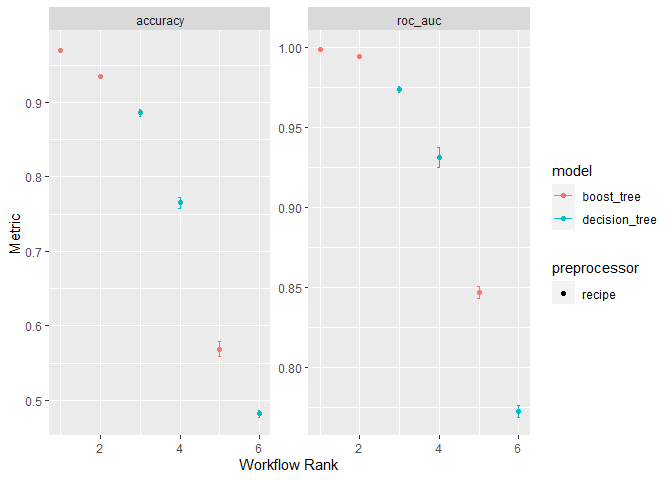
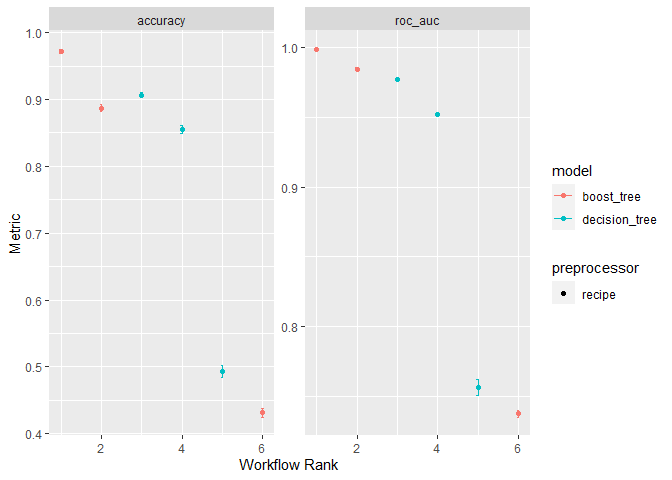
made language connecting accuracy and error more explicit.

diff --git a/ml_project.md b/ml_project.md
@@ -8,17 +8,9 @@ library(tidyverse)
 library(tidymodels)
 
 library(workflowsets)
-```
-
-    ## Warning: package 'workflowsets' was built under R version 4.0.4
-
-``` r
 library(stacks)
-```
+library(vip)
 
-    ## Warning: package 'stacks' was built under R version 4.0.4
-
-``` r
 set.seed(123)
 ```
 
@@ -44,10 +36,10 @@ protection from overfitting. Other steps were also tested and mentioned
 in the document.
 
 I concluded by choosing a gradient boosted trees model which gave me
-accuracy of approximately 97% on the training data. As I used cross
-validation, hopefully I will not see a significant drop in accuracy when
-exposed to novel data, in other words, I don’t believe my out of sample
-error will be large.
+accuracy of approximately 97% on the training data when using cross
+validation, this did not change when exposed to new data. In other
+words, I don’t believe my actual out of sample error will be much larger
+than (100% - 97% =) 3%.
 
 A prediction for the testing data was also done.
 
@@ -112,10 +104,17 @@ rev_pml_training <- rev_pml_training %>%
   mutate_if(is.character, as.factor)
 ```
 
+``` r
+rev_pml_training_split <- rev_pml_training %>%
+  initial_split(prop = 3/4, strata = classe)
+
+rev_pml_training_train <- training(rev_pml_training_split)
+```
+
 The stratified folds were created using the cleaned dataset
 
 ``` r
-folds <- vfold_cv(rev_pml_training,
+folds <- vfold_cv(rev_pml_training_train,
                   strata = classe,    # This is stratified sampling
                   v = 5)              # This is 5-fold cross-validation
 ```
@@ -135,7 +134,7 @@ seven (7) I specify, are to be predictors).
 ``` r
 # This is the recipe to be used with trees
 classe_rec <- recipe(classe ~ .,
-                     data = rev_pml_training) %>%
+                     data = rev_pml_training_train) %>%
 # Update the first seven (7) columns as ID and thus not use them as predictors
   update_role(X1,
               user_name,
@@ -292,9 +291,8 @@ will choose the best one to be used for predictions.
 
 ## Results
 
-I found the best model was **boosted trees using decorrelation via
-removing variables**, details can be found in the following table and
-plot.
+I found the best model was **boosted trees without any decorrelation**,
+details can be found in the following table and plot.
 
 Interestingly, decorrelation using PCA proved to be worse than using no
 decorrelation at all, rather than assume this to be a fault of PCA, I’m
@@ -322,18 +320,18 @@ ranked_results
     ## # A tibble: 12 x 5
     ##     rank .config              wflow_id                 metric    mean
     ##    <int> <chr>                <chr>                    <chr>    <dbl>
-    ##  1     1 Preprocessor2_Model1 filter_cor_boosted_trees accuracy 0.970
-    ##  2     1 Preprocessor2_Model1 filter_cor_boosted_trees roc_auc  0.998
-    ##  3     2 Preprocessor1_Model1 simple_boosted_trees     accuracy 0.935
-    ##  4     2 Preprocessor1_Model1 simple_boosted_trees     roc_auc  0.994
-    ##  5     3 Preprocessor1_Model2 simple_decision_tree     accuracy 0.886
-    ##  6     3 Preprocessor1_Model2 simple_decision_tree     roc_auc  0.974
-    ##  7     4 Preprocessor4_Model1 filter_cor_decision_tree accuracy 0.765
-    ##  8     4 Preprocessor4_Model1 filter_cor_decision_tree roc_auc  0.931
-    ##  9     5 Preprocessor2_Model1 filter_pca_boosted_trees accuracy 0.569
-    ## 10     5 Preprocessor2_Model1 filter_pca_boosted_trees roc_auc  0.847
-    ## 11     6 Preprocessor3_Model2 filter_pca_decision_tree accuracy 0.482
-    ## 12     6 Preprocessor3_Model2 filter_pca_decision_tree roc_auc  0.772
+    ##  1     1 Preprocessor1_Model4 simple_boosted_trees     accuracy 0.972
+    ##  2     1 Preprocessor1_Model4 simple_boosted_trees     roc_auc  0.999
+    ##  3     2 Preprocessor2_Model1 filter_cor_boosted_trees accuracy 0.887
+    ##  4     2 Preprocessor2_Model1 filter_cor_boosted_trees roc_auc  0.984
+    ##  5     3 Preprocessor1_Model4 simple_decision_tree     accuracy 0.907
+    ##  6     3 Preprocessor1_Model4 simple_decision_tree     roc_auc  0.977
+    ##  7     4 Preprocessor2_Model1 filter_cor_decision_tree accuracy 0.855
+    ##  8     4 Preprocessor2_Model1 filter_cor_decision_tree roc_auc  0.952
+    ##  9     5 Preprocessor1_Model2 filter_pca_decision_tree accuracy 0.493
+    ## 10     5 Preprocessor1_Model2 filter_pca_decision_tree roc_auc  0.756
+    ## 11     6 Preprocessor1_Model2 filter_pca_boosted_trees accuracy 0.431
+    ## 12     6 Preprocessor1_Model2 filter_pca_boosted_trees roc_auc  0.738
 
 ``` r
 # Plot comparing metrics for the best models 
@@ -413,7 +411,7 @@ best_result <- grid_results %>%
     ) %>%
   select_best(metric = "accuracy")
 
-
+# Calculate metrics on reserved data for testing
 # The if statement is a quick work around for the time needed to calculate
 if (any(list.files() == "final.fit.RData")) {
   load("final.fit.RData")
@@ -423,15 +421,41 @@ if (any(list.files() == "final.fit.RData")) {
         as.character(ranked_results[1,"wflow_id"])
         ) %>%
       finalize_workflow(best_result) %>%
-      fit(rev_pml_training)
+      last_fit(split = rev_pml_training_split) 
     
     save(final_fit, file = "final.fit.RData")
   }
 
 
-# Predict on test data using model
-prediction <- predict(final_fit, rev_pml_test)
-prediction
+# Accuracy on simulated out of sample data
+final_fit %>% 
+     collect_metrics()
+```
+
+    ## # A tibble: 2 x 4
+    ##   .metric  .estimator .estimate .config             
+    ##   <chr>    <chr>          <dbl> <chr>               
+    ## 1 accuracy multiclass     0.976 Preprocessor1_Model1
+    ## 2 roc_auc  hand_till      0.999 Preprocessor1_Model1
+
+``` r
+# Pull final workflow
+final_workflow <- final_fit %>% 
+  pluck(".workflow", 1)
+
+
+# Show plot of the most influential predictors affecting the predictions
+final_workflow %>%
+  pull_workflow_fit() %>%
+  vip(num_features = 20)
+```
+
+![](ml_project_files/figure-gfm/unnamed-chunk-1-1.png)<!-- -->
+
+``` r
+# Predict 20 values
+final_workflow  %>%
+  predict(new_data = rev_pml_test)
 ```
 
     ## # A tibble: 20 x 1
@@ -442,7 +466,7 @@ prediction
     ##  3 B          
     ##  4 A          
     ##  5 A          
-    ##  6 C          
+    ##  6 E          
     ##  7 D          
     ##  8 B          
     ##  9 A          
@@ -457,3 +481,19 @@ prediction
     ## 18 B          
     ## 19 B          
     ## 20 B
+
+## Conclusion
+
+Accuracy testing on a validation dataset when using cross validation and
+after when using new data had little change which gives us confidence
+that the out sample error would also be similar (remember error = 1 -
+accuracy).
+
+This makes sense as cross validation is a method for calculating out of
+sample accuracy (and thus out of sample error). Cross validation is most
+useful when the dataset is too small to split and use one for estimating
+accuracy. We can use these calculations as a type of validation of this.
+
+-   accuracy with just cross validation: approx. 97.2% (error = 2.8%)
+
+-   accuracy with new data: approx. approx. 97.6% (error = 2.4%)
